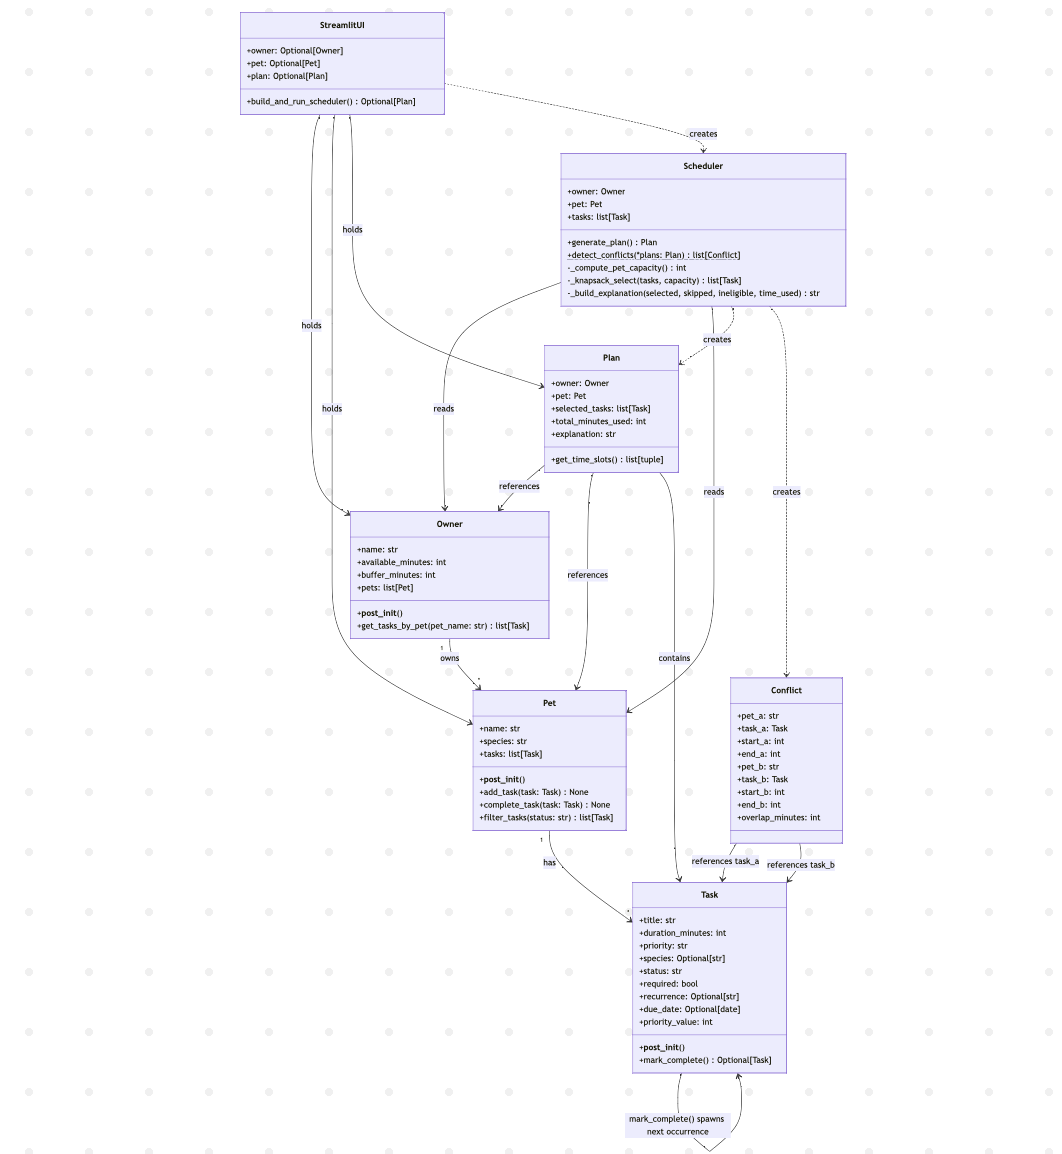
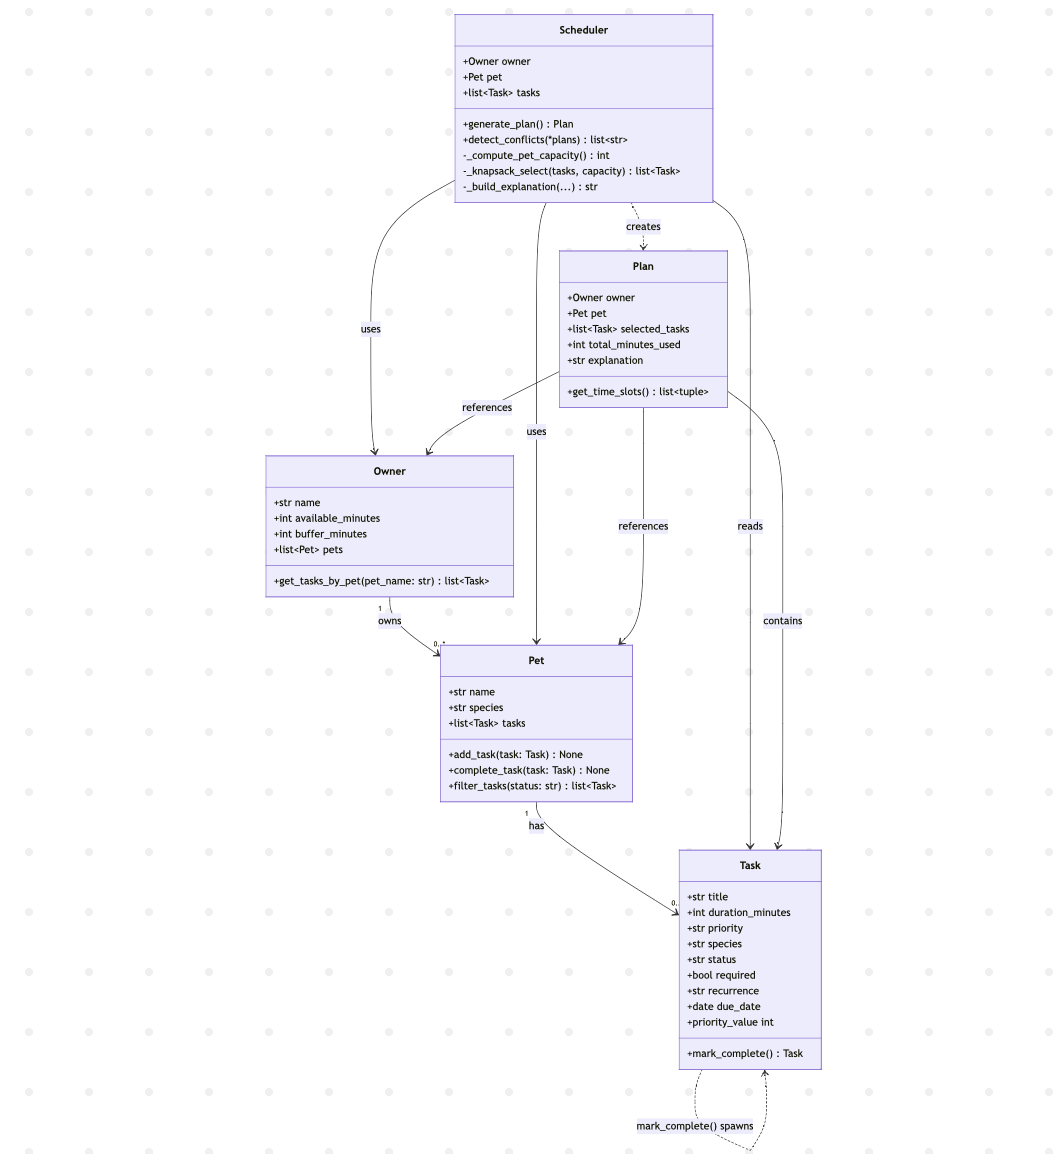
docs: update REAdME.md

diff --git a/app.py b/app.py
@@ -1,6 +1,44 @@
 import streamlit as st
 from pawpal_system import Owner, Pet, Task, Scheduler
 
+PRIORITY_ORDER = {"high": 0, "medium": 1, "low": 2}
+
+
+def _priority_badge(priority: str) -> str:
+    icons = {"high": "🔴", "medium": "🟡", "low": "🟢"}
+    return f"{icons.get(priority, '')} {priority}"
+
+
+def _render_plan(plan, allocated_minutes: int | None = None) -> None:
+    """Render a Plan's time slots and summary using Streamlit components."""
+    budget = allocated_minutes if allocated_minutes is not None else plan.owner.available_minutes
+
+    col_used, col_budget, col_tasks = st.columns(3)
+    col_used.metric("Minutes used", plan.total_minutes_used)
+    col_budget.metric("Budget", budget)
+    col_tasks.metric("Tasks scheduled", len(plan.selected_tasks))
+
+    slots = plan.get_time_slots()
+    if slots:
+        st.table([
+            {
+                "start (min)": start,
+                "end (min)": end,
+                "task": t.title,
+                "priority": _priority_badge(t.priority),
+                "duration (min)": t.duration_minutes,
+                "required": "✓" if t.required else "",
+            }
+            for t, start, end in slots
+        ])
+    else:
+        st.info("No tasks could be scheduled within the time budget.")
+
+    # Skipped / excluded tasks pulled from the explanation text are already
+    # in plan.explanation — show it collapsed so it's available but not loud.
+    with st.expander("Full explanation"):
+        st.text(plan.explanation)
+
 st.set_page_config(page_title="PawPal+", page_icon="🐾", layout="centered")
 
 st.title("🐾 PawPal+")
@@ -9,10 +47,7 @@ st.markdown(
     """
 Welcome to the PawPal+ starter app.
 
-This file is intentionally thin. It gives you a working Streamlit app so you can start quickly,
-but **it does not implement the project logic**. Your job is to design the system and build it.
 
-Use this app as your interactive demo once your backend classes/functions exist.
 """
 )
 
@@ -22,20 +57,10 @@ with st.expander("Scenario", expanded=True):
 **PawPal+** is a pet care planning assistant. It helps a pet owner plan care tasks
 for their pet(s) based on constraints like time, priority, and preferences.
 
-You will design and implement the scheduling logic and connect it to this Streamlit UI.
 """
     )
 
-with st.expander("What you need to build", expanded=True):
-    st.markdown(
-        """
-At minimum, your system should:
-- Represent pet care tasks (what needs to happen, how long it takes, priority)
-- Represent the pet and the owner (basic info and preferences)
-- Build a plan/schedule for a day that chooses and orders tasks based on constraints
-- Explain the plan (why each task was chosen and when it happens)
-"""
-    )
+
 
 st.divider()
 
@@ -135,15 +160,16 @@ else:
     for pet in pets:
         if pet.tasks:
             st.markdown(f"**{pet.name}** ({pet.species})")
+            sorted_tasks = sorted(pet.tasks, key=lambda t: (PRIORITY_ORDER[t.priority], t.duration_minutes))
             st.table([
                 {
                     "title": t.title,
-                    "duration_min": t.duration_minutes,
-                    "priority": t.priority,
-                    "required": t.required,
+                    "priority": _priority_badge(t.priority),
+                    "duration (min)": t.duration_minutes,
+                    "required": "✓" if t.required else "",
                     "status": t.status,
                 }
-                for t in pet.tasks
+                for t in sorted_tasks
             ])
 
 st.divider()
@@ -171,22 +197,33 @@ else:
             owner = st.session_state.owner
 
             if schedule_target == "All pets":
-                # Each pet gets a proportional share — owner.pets contains all pets
                 total_tasks = sum(len(p.tasks) for p in pets_with_tasks)
+                all_plans = []
                 for pet in pets_with_tasks:
                     scheduler = Scheduler(owner=owner, pet=pet)
                     plan = scheduler.generate_plan()
                     allocated = int(owner.available_minutes * len(pet.tasks) / total_tasks)
+                    all_plans.append(plan)
                     st.markdown(f"### {pet.name} ({pet.species})")
-                    st.success(f"{plan.total_minutes_used} min used out of {allocated} min allocated")
-                    st.text(plan.explanation)
-                    if plan.selected_tasks:
-                        st.table([
-                            {"title": t.title, "duration_min": t.duration_minutes, "priority": t.priority}
-                            for t in plan.selected_tasks
-                        ])
+                    _render_plan(plan, allocated_minutes=allocated)
+
+                # Surface any cross-pet time-slot conflicts
+                conflicts = Scheduler.detect_conflicts(*all_plans)
+                if conflicts:
+                    st.markdown("---")
+                    st.markdown("#### Scheduling conflicts detected")
+                    for msg in conflicts:
+                        # Strip leading "WARNING: " prefix for cleaner display
+                        clean = msg.removeprefix("WARNING: ")
+                        st.warning(
+                            f"**Overlap:** {clean}\n\n"
+                            "_Two pets have tasks scheduled at the same time. "
+                            "Consider staggering start times or reducing one task's duration._"
+                        )
+                else:
+                    st.success("No scheduling conflicts across pets.")
             else:
-                # Single pet selected — give it the full available_minutes
+                # Single pet — give it the full available_minutes
                 pet = next(p for p in pets_with_tasks if p.name == schedule_target)
                 single_pet_owner = Owner(
                     owner.name,
@@ -196,10 +233,5 @@ else:
                 )
                 scheduler = Scheduler(owner=single_pet_owner, pet=pet)
                 plan = scheduler.generate_plan()
-                st.success(f"Schedule for {pet.name} — {plan.total_minutes_used} min used.")
-                st.text(plan.explanation)
-                if plan.selected_tasks:
-                    st.table([
-                        {"title": t.title, "duration_min": t.duration_minutes, "priority": t.priority}
-                        for t in plan.selected_tasks
-                    ])
+                st.success(f"Schedule generated for **{pet.name}**.")
+                _render_plan(plan)

diff --git a/pawpal_system.py b/pawpal_system.py
@@ -46,10 +46,6 @@ Plan
     human-readable explanation.  get_time_slots() returns (task, start, end)
     tuples laid out sequentially with buffer gaps.
 
-StreamlitUI
-    Thin glue layer that holds the current Owner, Pet, and Plan in one place
-    and delegates scheduling to Scheduler.  Used by app.py.
-
 Quick-start example
 -------------------
     from pawpal_system import Owner, Pet, Task, Scheduler
@@ -370,20 +366,3 @@ class Scheduler:
                 lines.append(f"  • {task.title} (for {task.species}s)")
         return "\n".join(lines)
 
-
-class StreamlitUI:
-    """Thin wrapper that connects the system classes to the Streamlit frontend."""
-
-    def __init__(self):
-        """Initialize with no owner, pet, or plan set."""
-        self.owner: Optional[Owner] = None
-        self.pet: Optional[Pet] = None
-        self.plan: Optional[Plan] = None
-
-    def build_and_run_scheduler(self) -> Optional[Plan]:
-        """Create a Scheduler from current state, store and return the generated Plan."""
-        if self.owner is None or self.pet is None:
-            return None
-        scheduler = Scheduler(owner=self.owner, pet=self.pet)
-        self.plan = scheduler.generate_plan()
-        return self.plan

diff --git a/README.md b/README.md
@@ -22,17 +22,22 @@ Your final app should:
 - Display the plan clearly (and ideally explain the reasoning)
 - Include tests for the most important scheduling behaviors
 
+## Features
+
+- **Sorting by duration** — tasks are kept sorted shortest-first after every add or completion, so the task list is always in a predictable order.
+- **Priority-based ordering** — selected optional tasks are placed into the plan from highest to lowest priority, with shortest duration breaking ties.
+- **0/1 Knapsack optimization** — the scheduler uses bottom-up dynamic programming to find the combination of optional tasks with the highest total priority value that fits within the available time.
+- **Required task guarantee** — tasks marked required are always included in the plan regardless of time pressure; optional tasks fill whatever capacity remains.
+- **Buffer time between tasks** — an owner-level buffer is inserted between consecutive tasks and counted against capacity during scheduling.
+- **Species filtering** — tasks can be restricted to a specific species; ineligible tasks are excluded before scheduling and reported separately in the plan explanation.
+- **Daily and weekly recurrence** — completing a recurring task automatically spawns the next occurrence anchored to the original due date to prevent schedule drift.
+- **Proportional multi-pet time allocation** — when an owner has multiple pets, available minutes are split proportionally by each pet's pending-task count.
+- **Sequential time-slot layout** — the plan produces start and end times for each task laid out from minute 0 with buffer gaps, used by both the UI and conflict detection.
+- **Cross-plan conflict detection** — checks all pairs of time slots across multiple pet plans for overlaps and returns human-readable warnings instead of crashing on bad input.
+
 ## Smarter Scheduling
 
-The scheduler goes beyond a simple greedy approach with several features added during implementation:
-
-- **0/1 Knapsack algorithm** — instead of greedily picking tasks by priority until time runs out, the scheduler uses dynamic programming to find the combination of optional tasks with the highest total priority value that fits within the available time.
-- **Required tasks** — tasks marked `required=True` are always included in the plan regardless of time pressure, with optional tasks filling whatever time remains.
-- **Buffer time** — an owner-level `buffer_minutes` value is inserted between consecutive tasks, giving the owner rest or travel time between activities.
-- **Species filtering** — tasks can be restricted to a specific species (`dog`, `cat`, or `other`); ineligible tasks are excluded before scheduling and reported separately in the explanation.
-- **Recurring tasks** — tasks with `recurrence="daily"` or `"weekly"` automatically spawn the next occurrence when marked complete, anchored to the original due date to prevent schedule drift.
-- **Multi-pet support** — when an owner has multiple pets, available time is allocated proportionally by pending-task count and each pet gets its own plan.
-- **Conflict detection** — `Scheduler.detect_conflicts(*plans)` checks all pairs of time slots across multiple pet plans and reports any overlaps.
+The scheduler goes beyond a simple greedy approach. Rather than picking tasks by priority until time runs out, it uses a 0/1 knapsack algorithm to find the highest-value combination of tasks that fits the available time. Required tasks are always guaranteed a spot, and whatever time remains is offered to optional tasks. When an owner has multiple pets, time is divided proportionally so no pet is shortchanged. The system also handles recurring tasks, species restrictions, buffer gaps between activities, and can detect scheduling conflicts across multiple pet plans.
 
 ## Getting started
 
